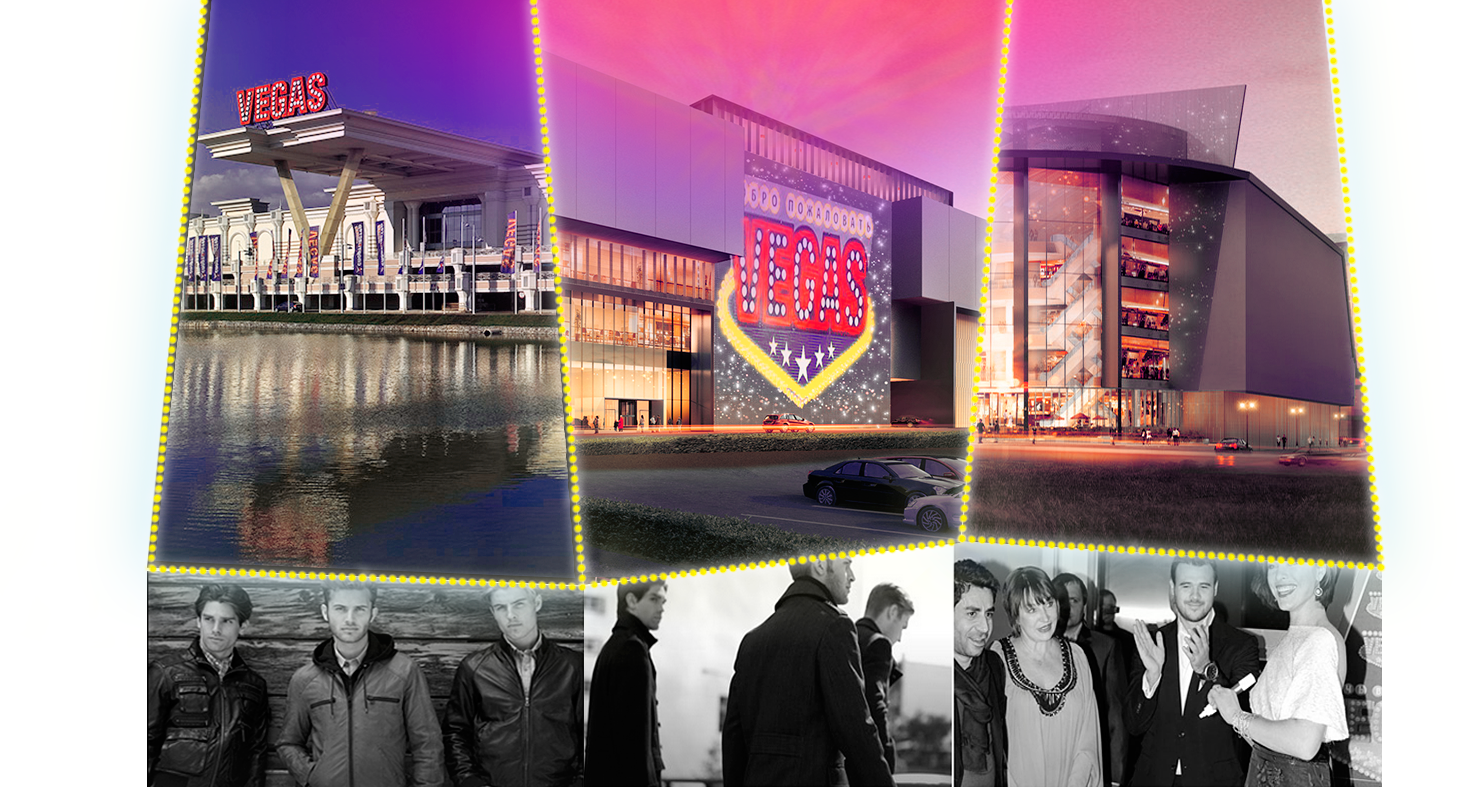
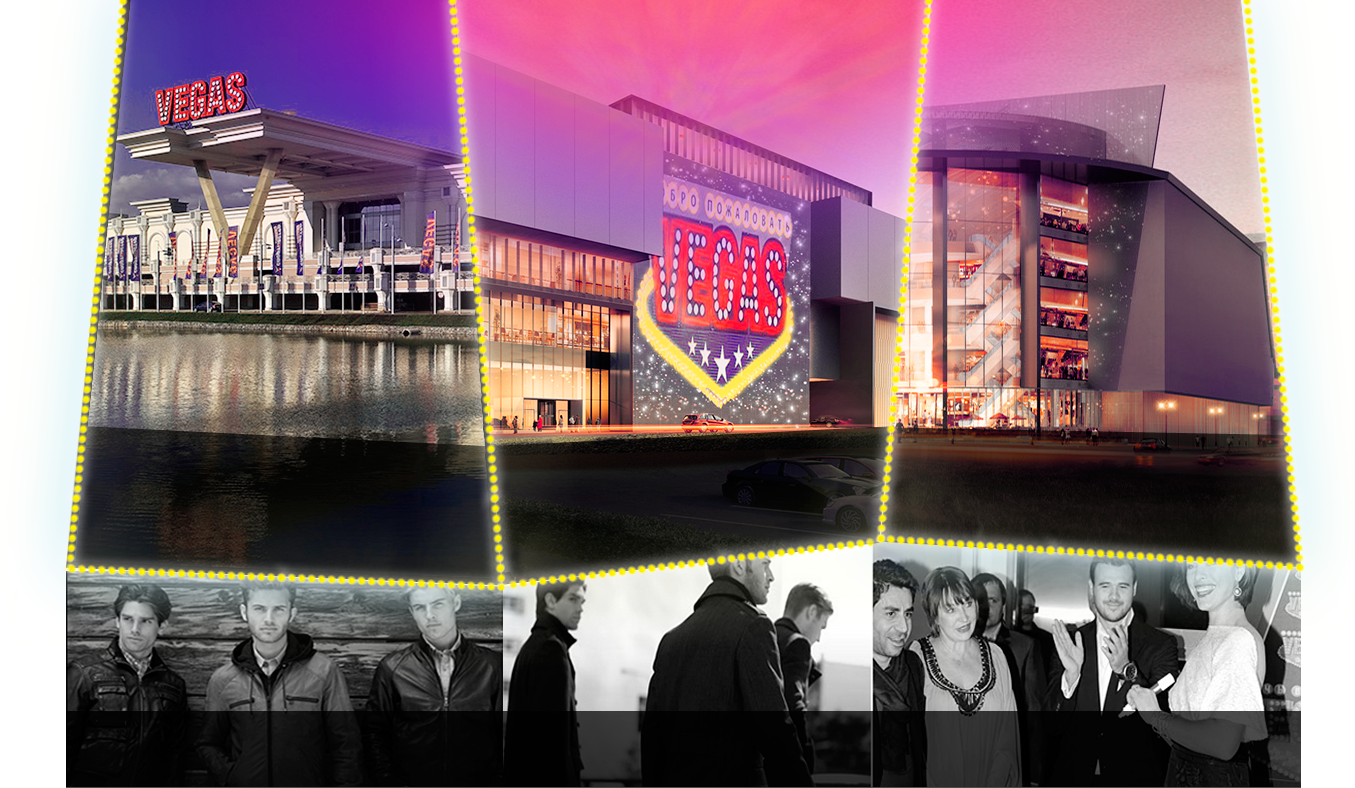
та же хня в полной версии

diff --git a/crocus/css/master.css b/crocus/css/master.css
@@ -410,35 +410,26 @@ footer.primary .links li a {
   width: 1000px;
   position: relative;
   margin: auto;
-  background: url("../images/prim-light.png") -113px top no-repeat;
 }
 #page.primary #content .places a {
-  background: url("../images/prim-shad3.png") center top no-repeat;
   width: 360px;
   height: 158px;
   position: absolute;
-  margin-left: 335px;
-  margin-top: 5px;
+  margin-left: 330px;
   padding-top: 30px;
-  padding-right: 50px;
 }
 #page.primary #content .places a:first-child {
-  background: url("../images/prim-shad1.png") left top no-repeat;
   width: 374px;
   height: 152px;
-  margin-left: -77px;
-  margin-top: 11px;
-  padding-top: 35px;
-  padding-right: 50px;
+  margin-left: -75px;
+  margin-top: 10px;
 }
 #page.primary #content .places a:last-child {
-  background: url("../images/prim-shad2.png") right top no-repeat;
   width: 372px;
   height: 140px;
-  margin-left: 730px;
+  margin-left: 725px;
   margin-top: 5px;
   padding-top: 27px;
-  padding-right: 50px;
 }
 #page.primary #content .places a {
   display: inline-block;
@@ -453,6 +444,73 @@ footer.primary .links li a {
   display: block;
   font-family: 'Roboto Condensed';
   font-size: 40px;
+}
+
+#page.primary #content #botnav {
+  height: 77px;
+  width: 1240px;
+  margin: 290px auto 0px auto;
+  position: relative;
+}
+#page.primary #content #botnav li {
+  vertical-align: top;  
+  padding-top: 10px;
+}
+#page.primary #content #botnav li, #page.primary #content #botnav li img, #page.primary #content #botnav li span {
+  display: inline-block;
+  vertical-align: middle;
+}
+#page.primary #content #botnav li span {
+  width: 200px;
+  font-size: 14px;
+  line-height: 21px;
+  margin-top: -10px;
+}
+#page.primary #content #botnav li a {
+  font-family: 'Arial';
+  font-size: 16px;
+  color: #ffffff;
+  line-height: 27px;
+  width: 360px;
+  text-decoration: none;
+  display: block;
+}
+#page.primary #content #botnav li a.mark {
+  font-size: 12px;
+  background: #073352;
+  line-height: 21px;
+  padding: 0px 5px;
+  display: inline-block;
+  width: auto;
+  margin-top: 10px;
+}
+#page.primary #content #botnav li.lr {
+  width: 25px;
+  height: 77px;
+  position: absolute;
+  top: 15px;
+}
+#page.primary #content #botnav li.lr.l {
+  left: 20px;
+}
+#page.primary #content #botnav li.lr.r {
+  right: 0px;
+  margin-right: 5px;
+}
+#page.primary #content #botnav li:nth-child(2) {
+  width: 360px;
+  padding-left: 80px;
+}
+#page.primary #content #botnav li:nth-child(3) {
+  width: 365px;
+  padding-left: 5px;
+}
+#page.primary #content #botnav li:nth-child(4) {
+  width: 350px;
+  padding-left: 50px;
+}
+#page.primary #content {
+  padding-bottom: 120px;
 }
 
 #page #content {

diff --git a/crocus/mockup-04-01-main.html b/crocus/mockup-04-01-main.html
@@ -22,7 +22,30 @@
 					<a href="#">VEGAS<strong>Кунцево</strong></a>
 					<a href="#">VEGAS<strong>Крокус сити</strong></a>
 				</div>
-
+				<section id="botnav">
+				<ul>
+					<li class="lr l">
+						<img src="./images/left.png" alt="">
+					</li>
+					<li>
+						<a href="#" class="mark">Новости Vegas</a>
+						<a href="#">Самая длинная улица моды в России!</a>
+					</li>
+					<li>
+						<a href="#" class="inline">
+							<img src="./images/guess.jpg" alt="">
+							<span>Встречаем бутик итальянской одежды Guess в Vegas!</span>
+						</a>
+					</li>
+					<li>
+						<a href="#" class="mark">События</a>
+						<a href="#">Мировые звезды бокса в Vegas</a>
+					</li>
+					<li class="lr r">
+						<img src="./images/right.png" alt="">
+					</li>
+				</ul>
+				</section>
 			</div>
 		</div>
 		<footer class="primary">
